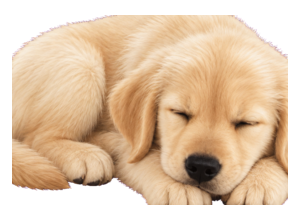
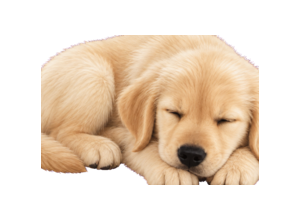
Fix walk tail artifacts half-faces and sleep sizing

diff --git a/src/DesktopPetDog/DogView.cs b/src/DesktopPetDog/DogView.cs
@@ -29,7 +29,7 @@ public sealed class DogView : Grid
         _sitFrames = Enumerable.Range(0, 6).Select(i => TryLoad($"Assets/Frames/Sit/{i:00}.png", _sitting)).ToArray();
         _playFrames = Enumerable.Range(0, 16).Select(i => TryLoad($"Assets/Frames/Play/{i:00}.png", _sitting)).ToArray();
         _sleeping = TryLoad("Assets/sleeping-puppy.png", _sitting);
-        _walkFrames = Enumerable.Range(0, 8).Select(i => TryLoad($"Assets/Frames/Walk/{i:00}.png", TryLoad($"Assets/Walk/walk-{i}.png", _sitting))).ToArray();
+        // Clean earlier walk cycle: no neighbouring half-faces and every tail stays attached.\n        _walkFrames = Enumerable.Range(0, 8).Select(i => TryLoad($"Assets/Walk/walk-{i}.png", _sitting)).ToArray();
         _puppy.Source = _sitting; Children.Add(_puppy); Children.Add(_tag); Children.Add(_hearts);
         _frameTimer.Tick += (_, _) => NextFrame();
     }
